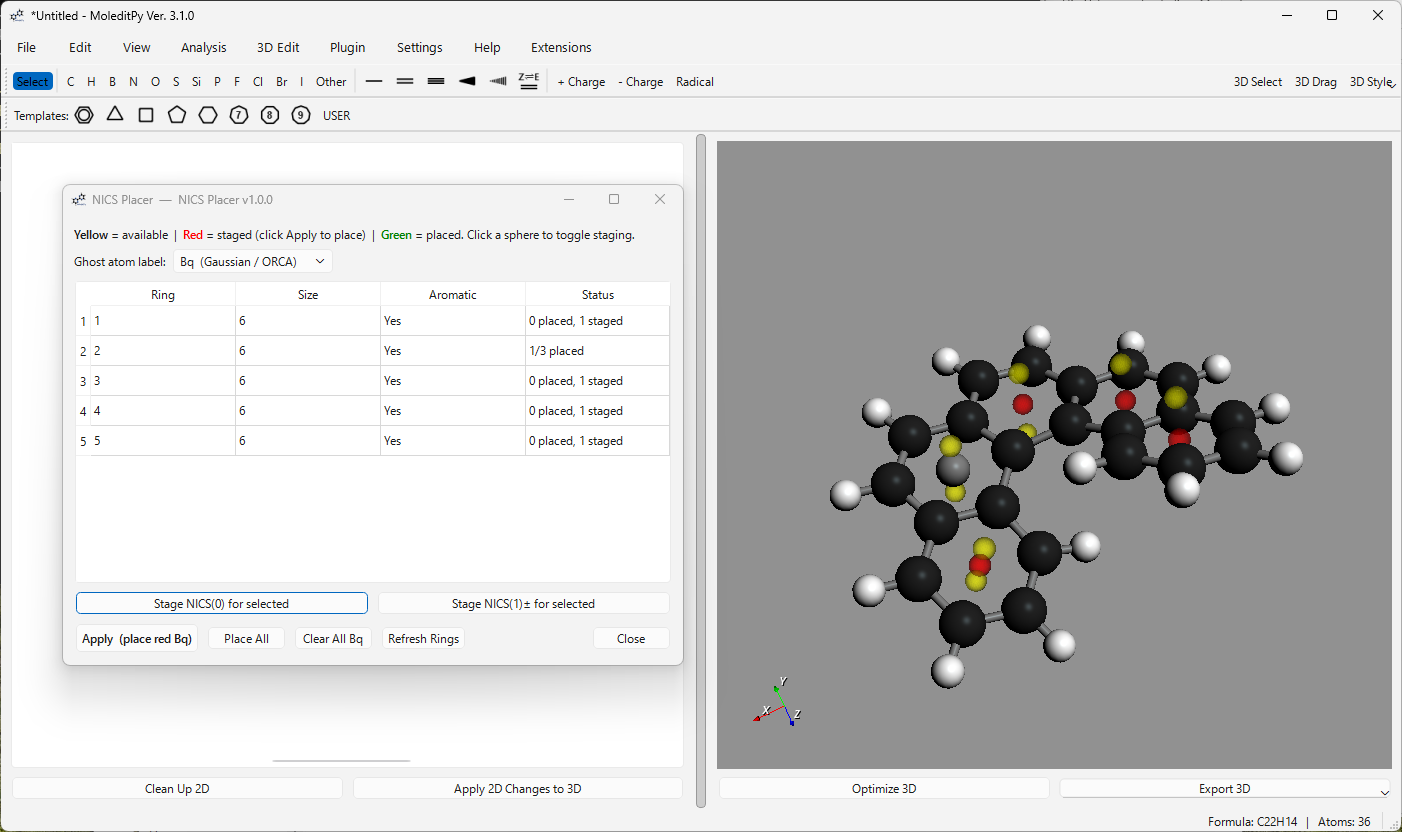
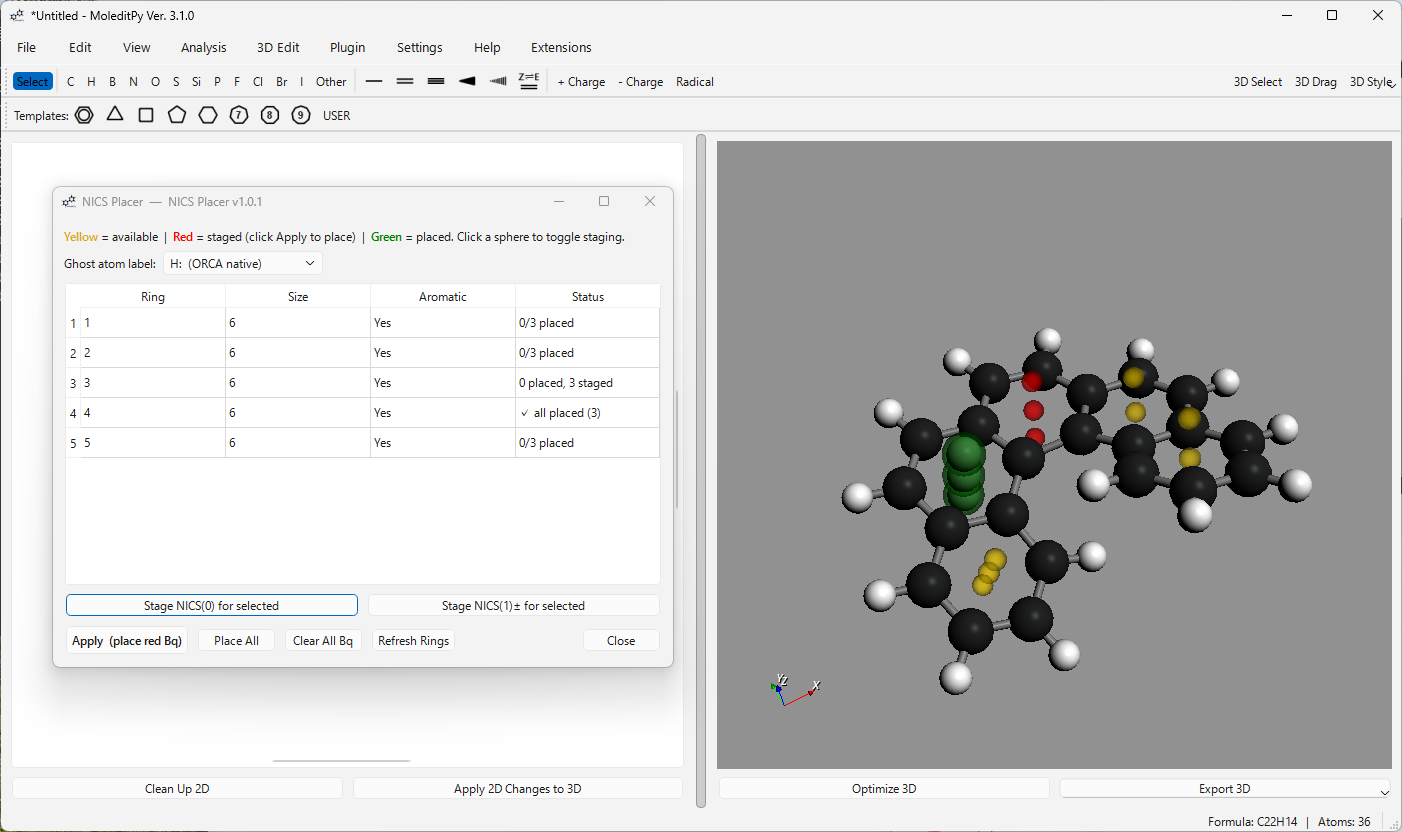
fix: retag * atoms on open; sync label changes to placed atoms; clear Bq/H: only
- On dialog open, bare atomic-num-0 atoms (* from optimisation) are
  retagged to the current ghost label via _retag_bare_dummy_atoms
- Changing the combo label now calls _retag_placed_atoms, updating
  all existing ghost atoms in the molecule immediately
- _remove_all_bq and _sync_placed_status revert to custom_symbol
  check only (Bq / H:) — * atoms are retagged on open before Clear
  could be pressed, so bare * never reaches Clear in normal use
- Green sphere radius 0.55 → 0.50
- Updated screenshot

diff --git a/nics_placer/dialog.py b/nics_placer/dialog.py
@@ -49,7 +49,7 @@ from .nics_math import (
 _GHOST_SYMBOLS = ("Bq", "H:")   # all recognised ghost atom labels
 _PICK_DIST_SQ = 1.0             # Å² snap threshold
 _SPHERE_RADIUS = 0.25
-_GREEN_SPHERE_RADIUS = 0.55     # > 0.3 × H VDW (1.2 Å) so placed spheres stay visible
+_GREEN_SPHERE_RADIUS = 0.50     # > 0.3 × H VDW (1.2 Å) so placed spheres stay visible
 
 
 # ---------------------------------------------------------------------------
@@ -108,18 +108,12 @@ def _add_bq_atom(mol, position: np.ndarray, symbol: str = "Bq"):
 
 
 def _remove_all_bq(mol):
-    """Return a new Mol with every ghost atom removed.
-
-    Catches three cases:
-      - custom_symbol in _GHOST_SYMBOLS  (Bq / H: as placed)
-      - atomic num 0 with no custom_symbol  (* produced by geometry optimisation)
-    """
+    """Return a new Mol with every Bq / H: ghost atom removed."""
     rw = Chem.RWMol(mol)
     to_remove = [
         a.GetIdx()
         for a in rw.GetAtoms()
-        if (a.HasProp("custom_symbol") and a.GetProp("custom_symbol") in _GHOST_SYMBOLS)
-        or (a.GetAtomicNum() == 0 and not a.HasProp("custom_symbol"))
+        if a.HasProp("custom_symbol") and a.GetProp("custom_symbol") in _GHOST_SYMBOLS
     ]
     for idx in sorted(to_remove, reverse=True):
         rw.RemoveAtom(idx)
@@ -302,10 +296,7 @@ class NicsPlacerDialog(QDialog):
         conf = mol.GetConformer()
         bq_pos = []
         for atom in mol.GetAtoms():
-            if (
-                (atom.HasProp("custom_symbol") and atom.GetProp("custom_symbol") in _GHOST_SYMBOLS)
-                or (atom.GetAtomicNum() == 0 and not atom.HasProp("custom_symbol"))
-            ):
+            if atom.HasProp("custom_symbol") and atom.GetProp("custom_symbol") in _GHOST_SYMBOLS:
                 p = conf.GetAtomPosition(atom.GetIdx())
                 bq_pos.append(np.array([p.x, p.y, p.z]))
 
@@ -473,6 +464,23 @@ class NicsPlacerDialog(QDialog):
         self._ghost_symbol = self._sym_combo.currentData()
         _plugin_settings["ghost_symbol"] = self._ghost_symbol
         _save_plugin_settings(_plugin_settings)
+        self._retag_placed_atoms(self._ghost_symbol)
+
+    def _retag_placed_atoms(self, new_symbol: str):
+        """Relabel all atomic-num-0 atoms in the molecule to *new_symbol*."""
+        mol = self._context.current_molecule
+        if not mol:
+            return
+        changed = False
+        for atom in mol.GetAtoms():
+            if atom.GetAtomicNum() == 0:
+                old = atom.GetProp("custom_symbol") if atom.HasProp("custom_symbol") else None
+                if old != new_symbol:
+                    atom.SetProp("custom_symbol", new_symbol)
+                    changed = True
+        if changed:
+            self._context.current_molecule = mol
+            self._context.push_undo_checkpoint()
 
     def _selected_ring_indices(self) -> set:
         selected = {idx.row() for idx in self._table.selectedIndexes()}
@@ -552,10 +560,29 @@ class NicsPlacerDialog(QDialog):
     # Lifecycle
     # ------------------------------------------------------------------
 
+    def _retag_bare_dummy_atoms(self):
+        """Convert atomic-num-0 atoms without a recognised custom_symbol to the
+        current ghost label.  These are * atoms left behind after geometry
+        optimisation strips the custom_symbol property from Bq / H: atoms."""
+        mol = self._context.current_molecule
+        if not mol:
+            return
+        # First stamp any bare * atoms with a placeholder so _retag_placed_atoms
+        # picks them up in one pass.
+        for atom in mol.GetAtoms():
+            if atom.GetAtomicNum() == 0 and not (
+                atom.HasProp("custom_symbol")
+                and atom.GetProp("custom_symbol") in _GHOST_SYMBOLS
+            ):
+                atom.SetProp("custom_symbol", "")   # mark for retagging
+        self._retag_placed_atoms(self._ghost_symbol)
+
     def showEvent(self, event):
         super().showEvent(event)
         # Sync symbol from persistent settings before loading rings
         self.sync_symbol_from_settings()
+        # Retag any bare * atoms (post-optimisation) to the current ghost label
+        self._retag_bare_dummy_atoms()
         # Re-initialise after being hidden (e.g. closed then re-opened via registry)
         self._last_mol_id = id(self._context.current_molecule)
         self._load_rings()

diff --git a/nics_placer/__init__.py b/nics_placer/__init__.py
@@ -22,7 +22,7 @@ except Exception:  # ImportError or OS-level DLL crash
     _QCoreApplication = None
 
 PLUGIN_NAME = "NICS Placer"
-PLUGIN_VERSION = "1.0.0"
+PLUGIN_VERSION = "1.0.1"
 PLUGIN_AUTHOR = "HiroYokoyama"
 PLUGIN_DESCRIPTION = (
     "Detect rings and place Bq ghost atoms at NICS(0)/NICS(1) probe positions. "
